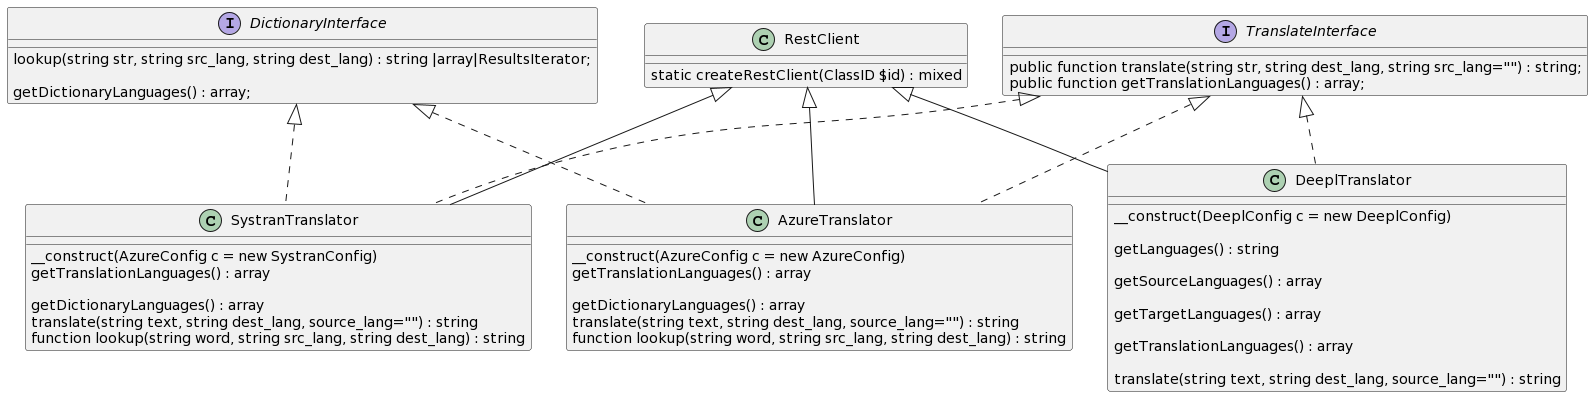
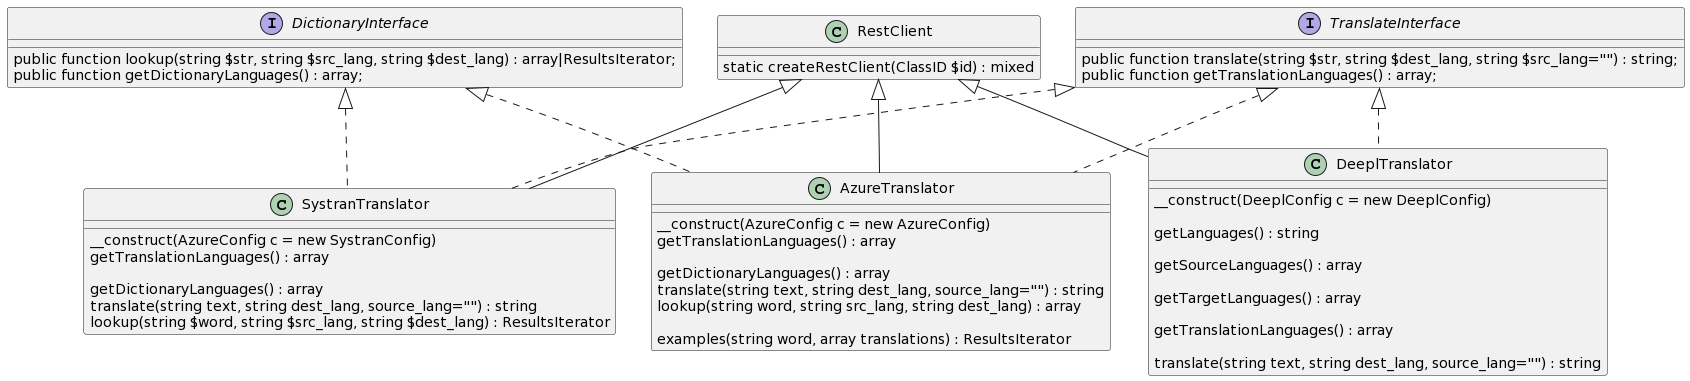
updates

diff --git a/README.md b/README.md
@@ -27,10 +27,6 @@ todo: complete this.
 
 ### Translaton and Dictionary Interfaces and Classes
 
-The UML [Dictionary classes and Interfaces](/assets/images/dict-classes.png) diagram (click to enlarge).
-
-![UML Dictionary Classes and Interface Diagram](/assets/images/dict-classes.png)
-
 The UML [Dictionary and Translation classes and Interfaces](/assets/images/dict-trans-classes.png) diagram (click to enlarge).
 
 ![UML Dictionary and Translation Classes and Interface Diagram](/assets/images/dict-trans-classes.png)
@@ -40,15 +36,20 @@ The dictionary and translation classes and interfaces in UML are:
 ```plantuml
 interface TranslateInterface {
 
-   public function translate(string str, string dest_lang, string src_lang="") : string; 
+   public function translate(string $str, string $dest_lang, string $src_lang="") : string;
    public function getTranslationLanguages() : array;
 }
 
 interface DictionaryInterface {
    
-   lookup(string str, string src_lang, string dest_lang) : string |array|ResultsIterator; 
+   public function lookup(string $str, string $src_lang, string $dest_lang) : array|ResultsIterator; 
+   public function getDictionaryLanguages() : array; 
+}
 
-   getDictionaryLanguages() : array;
+
+class RestClient {
+
+   static createRestClient(ClassID $id) : mixed
 }
 
 class AzureTranslator extends RestClient implements DictionaryInterface, TranslateInterface {
@@ -61,7 +62,9 @@ class AzureTranslator extends RestClient implements DictionaryInterface, Transla
     
    translate(string text, string dest_lang, source_lang="") : string 
    
-   function lookup(string word, string src_lang, string dest_lang) : string 
+   lookup(string word, string src_lang, string dest_lang) : array 
+
+   examples(string word, array translations) : ResultsIterator
 }
 
 class DeeplTranslator extends RestClient implements TranslateInterface {
@@ -79,15 +82,17 @@ class DeeplTranslator extends RestClient implements TranslateInterface {
    translate(string text, string dest_lang, source_lang="") : string 
 }
 
-class PonsDictionary extends  RestClient implements DictionaryInterface {
+class SystranTranslator extends RestClient implements DictionaryInterface, TranslateInterface {
 
-   __construct(PonsConfig c = new PonsConfig)
+   __construct(AzureConfig c = new SystranConfig)
+   
+   getTranslationLanguages() : array
 
    getDictionaryLanguages() : array 
-
-   getDictionaryForLanguages(string lang) : array
-
-   lookup(string text, string src, string dest) : ResultsIterator
+    
+   translate(string text, string dest_lang, source_lang="") : string 
+   
+   lookup(string $word, string $src_lang, string $dest_lang) : ResultsIterator
 }
 ```
 
@@ -105,9 +110,14 @@ interface SentenceFetchInterface  {
    fetch(string word, int count=3) : ResultsIterator;
 }
 
-class UniLeipzigSentenceFetcher extends RestClient implements SentenceFetchInterface {
+class RestClient {
 
-   __construct( UniLeipzigConfig c = new UniLeipzigConfig() )
+   static createRestClient(ClassID $id) : mixed
+}
+
+class LeipzigSentenceFetcher extends RestClient implements SentenceFetchInterface {
+
+   __construct( UniLeipzigConfig c = new LeipzigConfig() )
    
    fetch(string word, int count=3) :  ResultsIterator
 }
